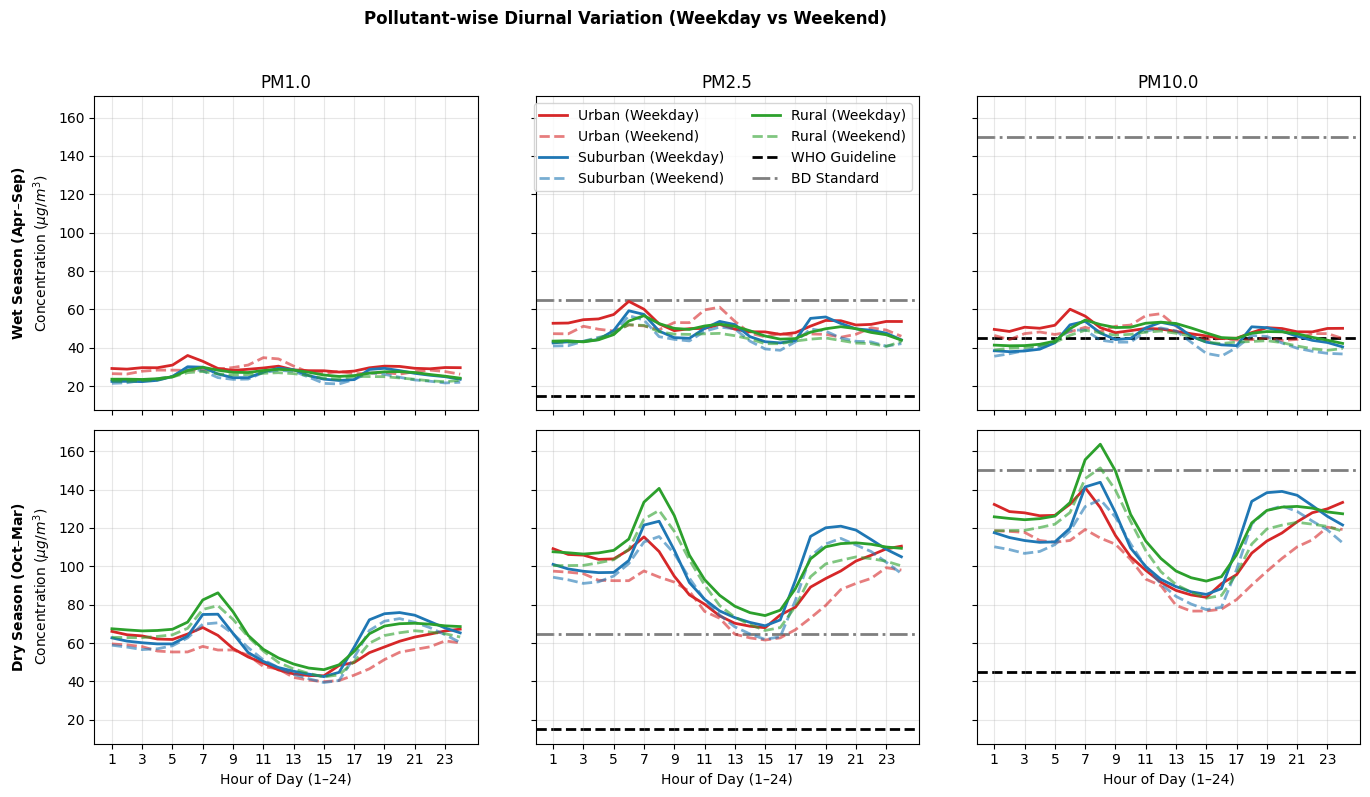
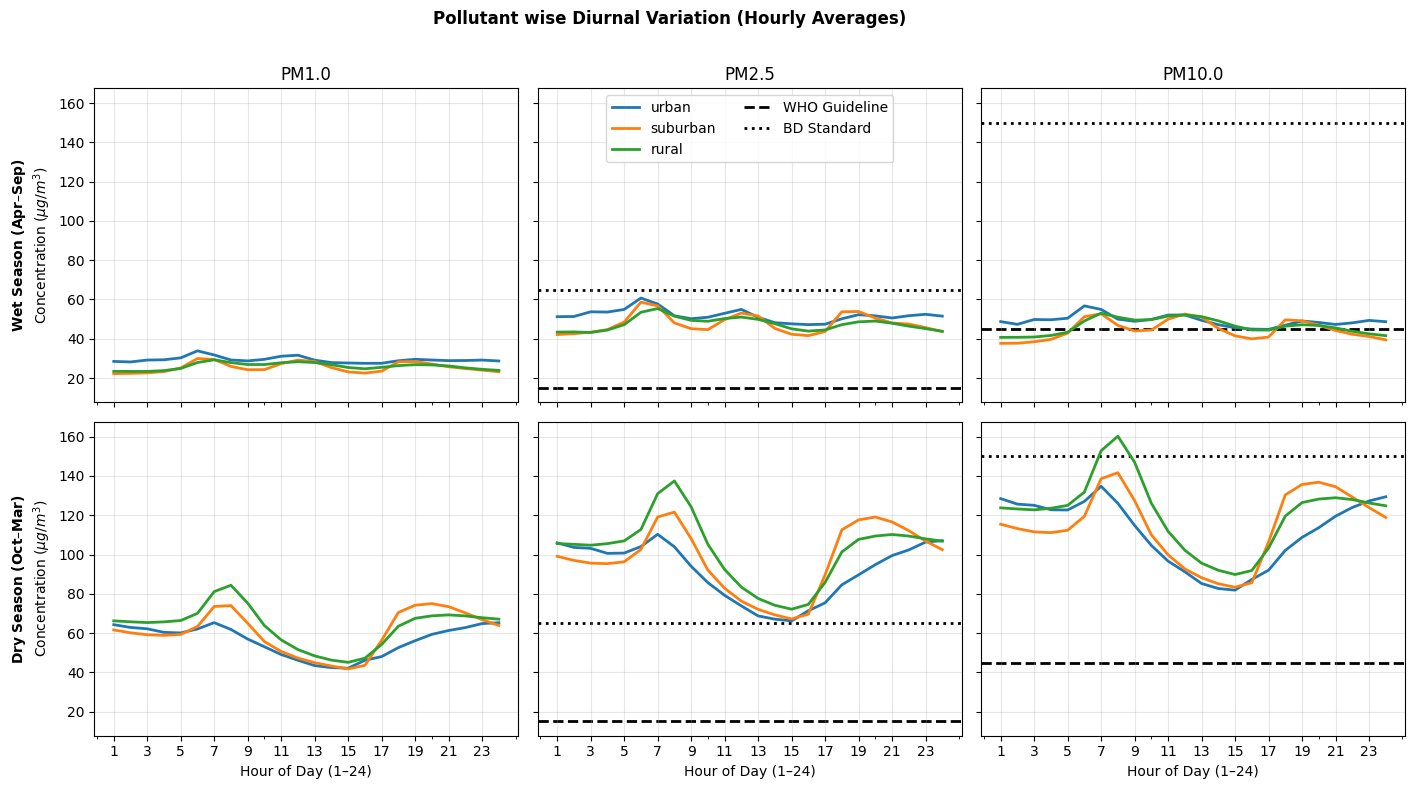
Adding Diurnal variation with threshold value

diff --git a/README.md b/README.md
@@ -55,9 +55,13 @@ The PM<sub>2.5</sub> concentration shows annual seasonality. It reduces in signi
 
 ---
 
-<!-- ### 3.2 Diurnal Variation
+### 3.2 Diurnal Variation
+
+Diurnal variation of various particulate matters like PM<sub>1.0</sub>, PM<sub>2.5</sub> and PM<sub>10.0</sub> was analyzed for wet and dry seasons. Then that variation was compared with the WHO guideline value and Bangladesh Standard threshold value of daily average for PM<sub>2.5</sub> and PM<sub>10.0</sub>.
 
 ### Figure 3. Diurnal variation of various matters
 
-![Diurnal variation of various matters](diurnal-variation-of-particulate-matters.png) -->
+![Diurnal variation of various matters](diurnal%20variation%20of%20particulate%20matters.png)
+
+
 
